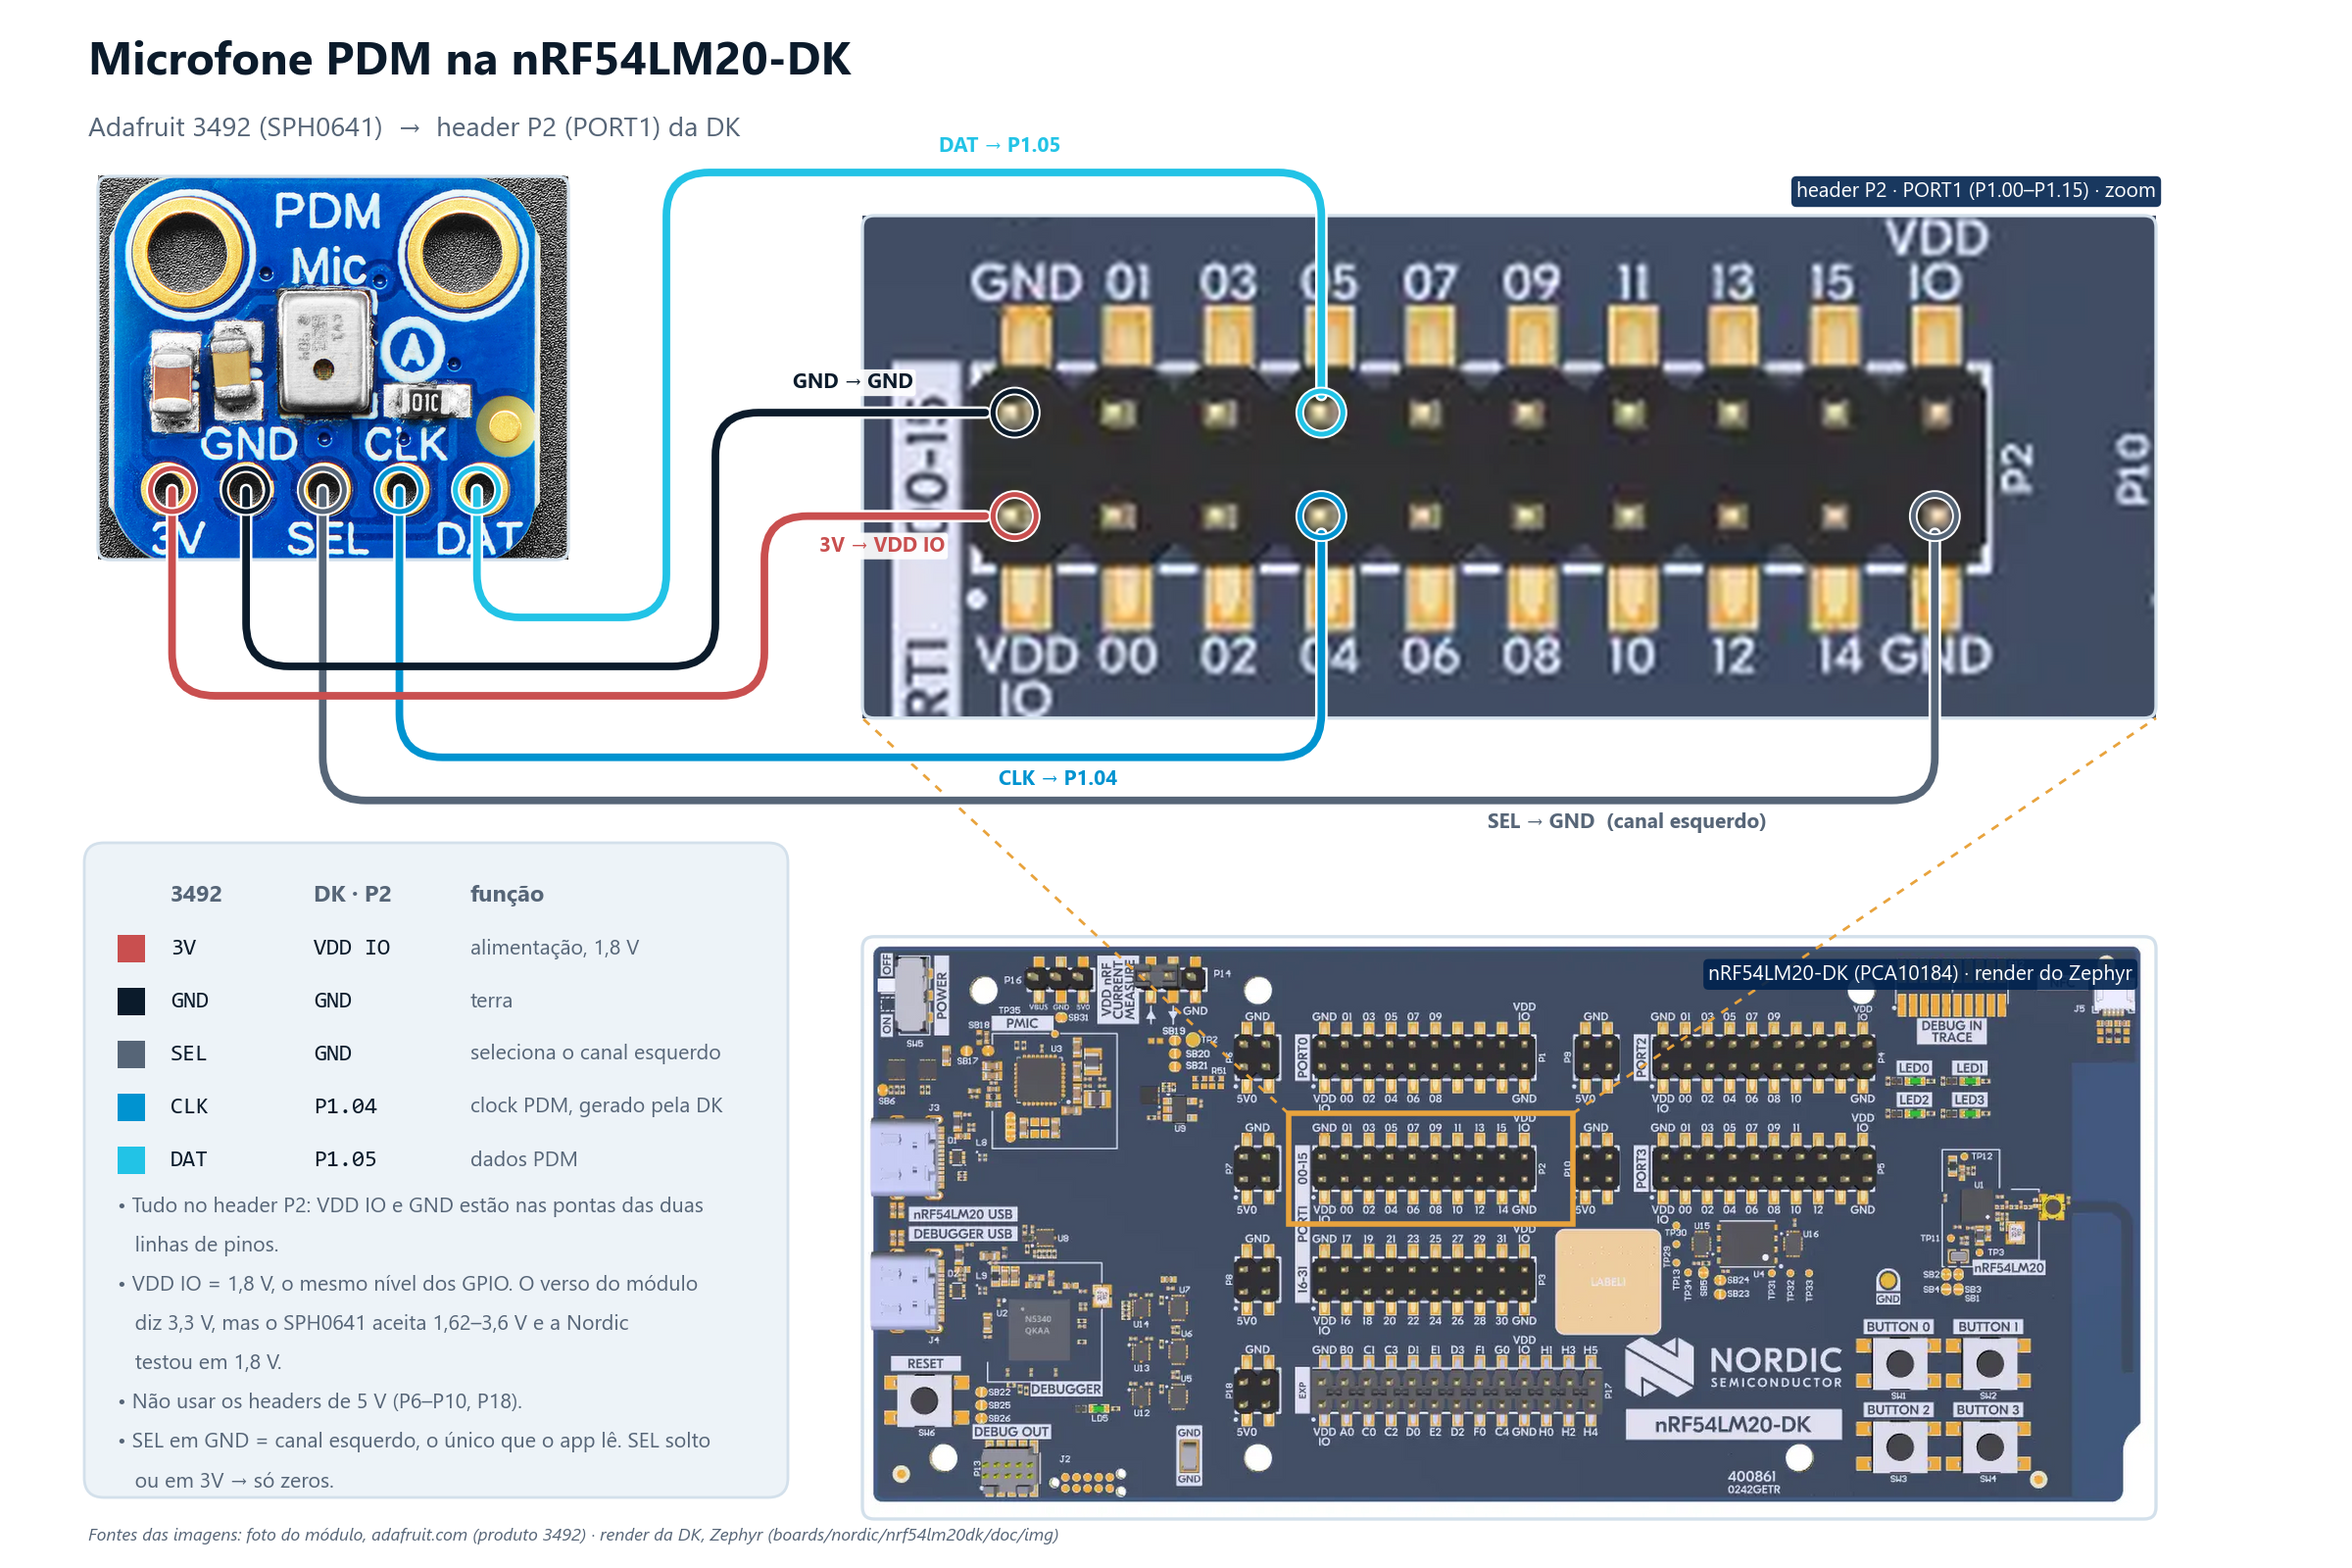
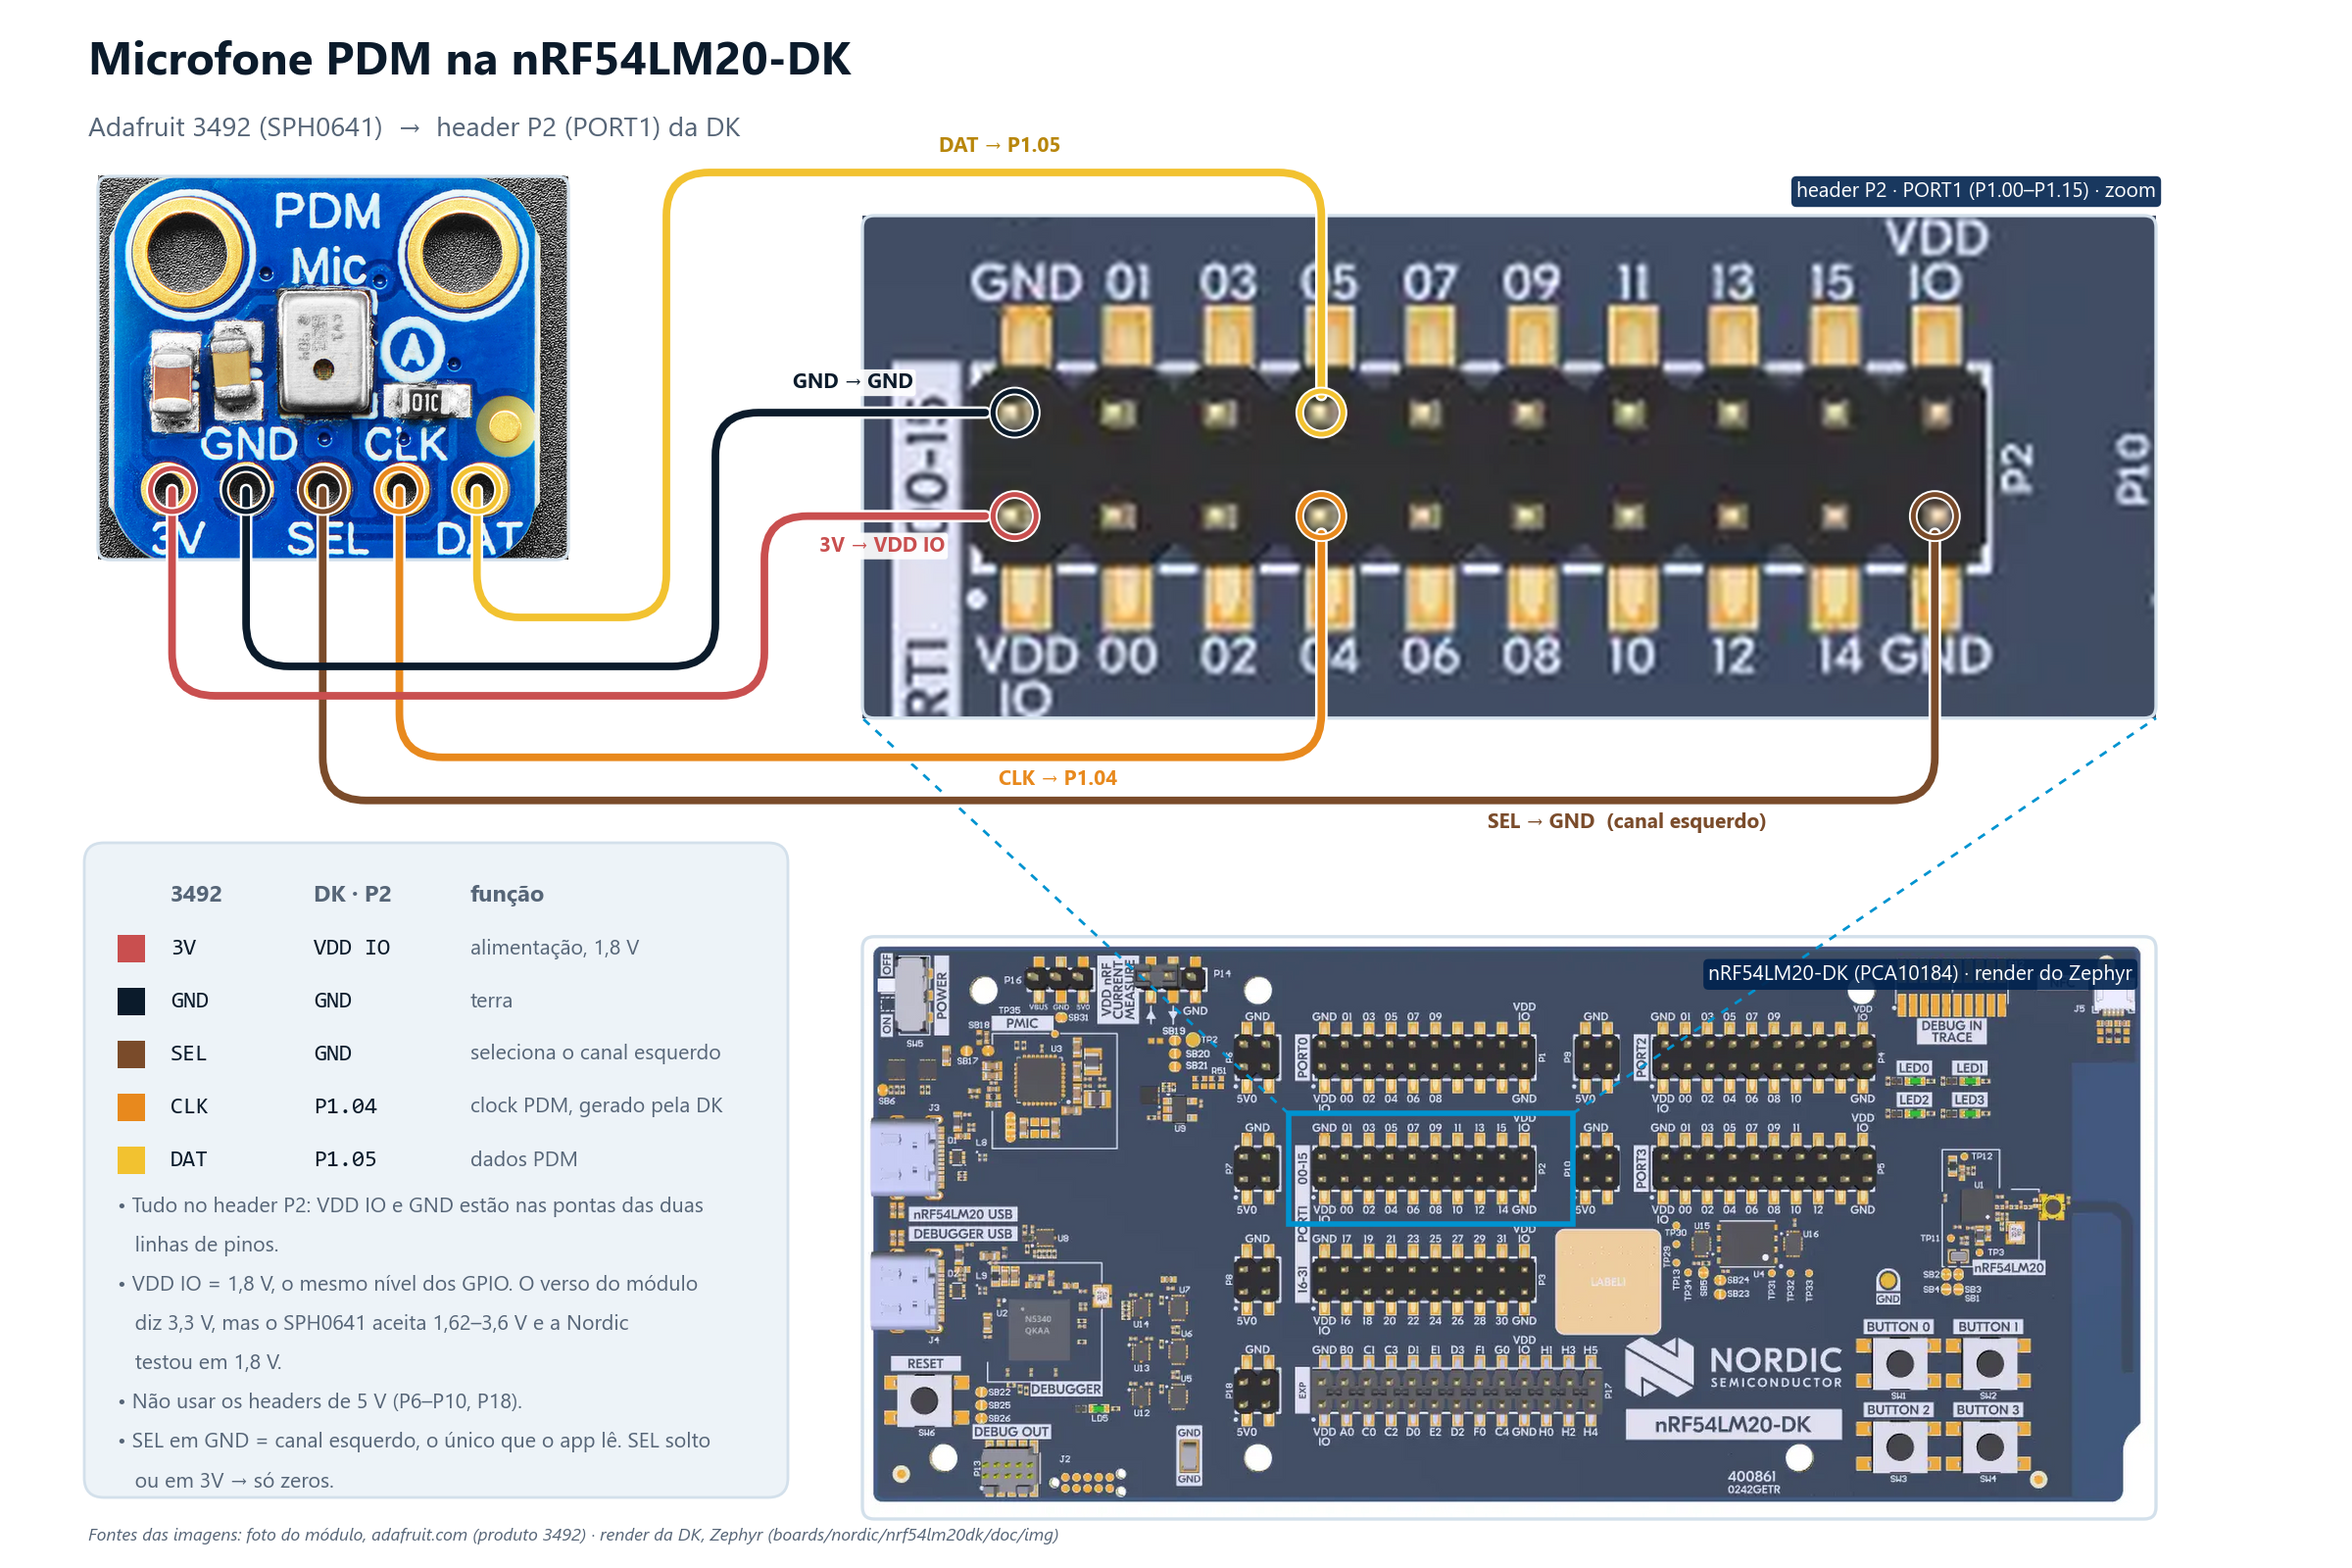
06_ww_kws: cores dos fios do kit na figura e na tabela de ligacao
Vermelho 3V, preto GND, marrom SEL->GND, laranja CLK, amarelo DAT.

Claude-Session: https://claude.ai/code/session_01YPEou1p25CGVxrw4RFsiuv

diff --git a/edge_ai/06_ww_kws/README.md b/edge_ai/06_ww_kws/README.md
@@ -38,13 +38,13 @@ pinos do breakout precisa estar soldada.
 
 ![Ligação do microfone PDM na nRF54LM20-DK](ligacao_mic_pdm.png)
 
-| Adafruit 3492 | nRF54LM20-DK | Por quê |
-|---|---|---|
-| `3V` | **`VDD:IO`** | alimentação do mic **no mesmo nível lógico dos GPIO** (1,8 V por padrão). O verso do módulo diz "Vin/Vlogic: 3.3V", mas o SPH0641 aceita 1,62–3,6 V e a Nordic testou em 1,8 V |
-| `GND` | `GND` | |
-| `SEL` | `GND` | escolhe o **canal esquerdo**; o app só lê esse canal |
-| `CLK` | **`P1.04`** | clock PDM gerado pela DK (1–3,25 MHz) |
-| `DAT` | **`P1.05`** | dados PDM |
+| Adafruit 3492 | nRF54LM20-DK | Fio | Por quê |
+|---|---|---|---|
+| `3V` | **`VDD:IO`** | vermelho | alimentação do mic **no mesmo nível lógico dos GPIO** (1,8 V por padrão). O verso do módulo diz "Vin/Vlogic: 3.3V", mas o SPH0641 aceita 1,62–3,6 V e a Nordic testou em 1,8 V |
+| `GND` | `GND` | preto | |
+| `SEL` | `GND` | marrom | escolhe o **canal esquerdo**; o app só lê esse canal |
+| `CLK` | **`P1.04`** | laranja | clock PDM gerado pela DK (1–3,25 MHz) |
+| `DAT` | **`P1.05`** | amarelo | dados PDM |
 
 - **Tudo cabe no header P2** (serigrafia `PORT1 00-15`, 2×10 pinos): a linha de cima é
   `GND 01 03 05 … 15 VDD IO`, a de baixo `VDD IO 00 02 04 … 14 GND`. `P1.05` é o 4º pino da
